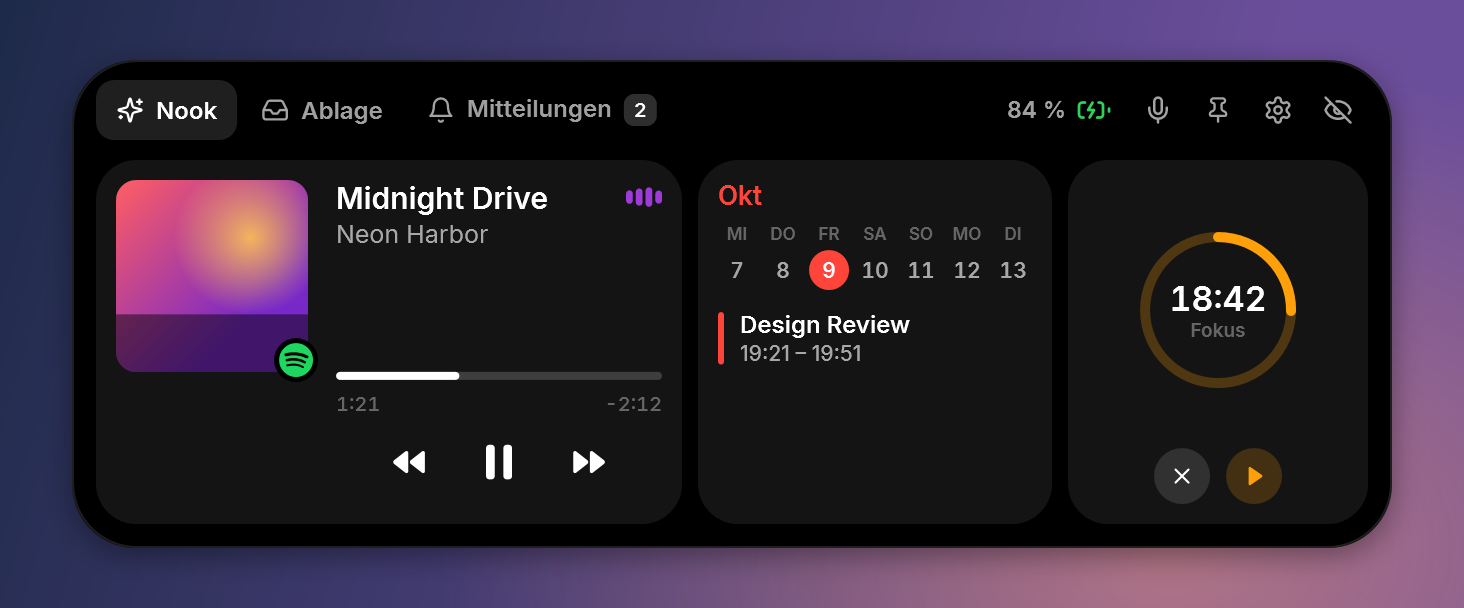
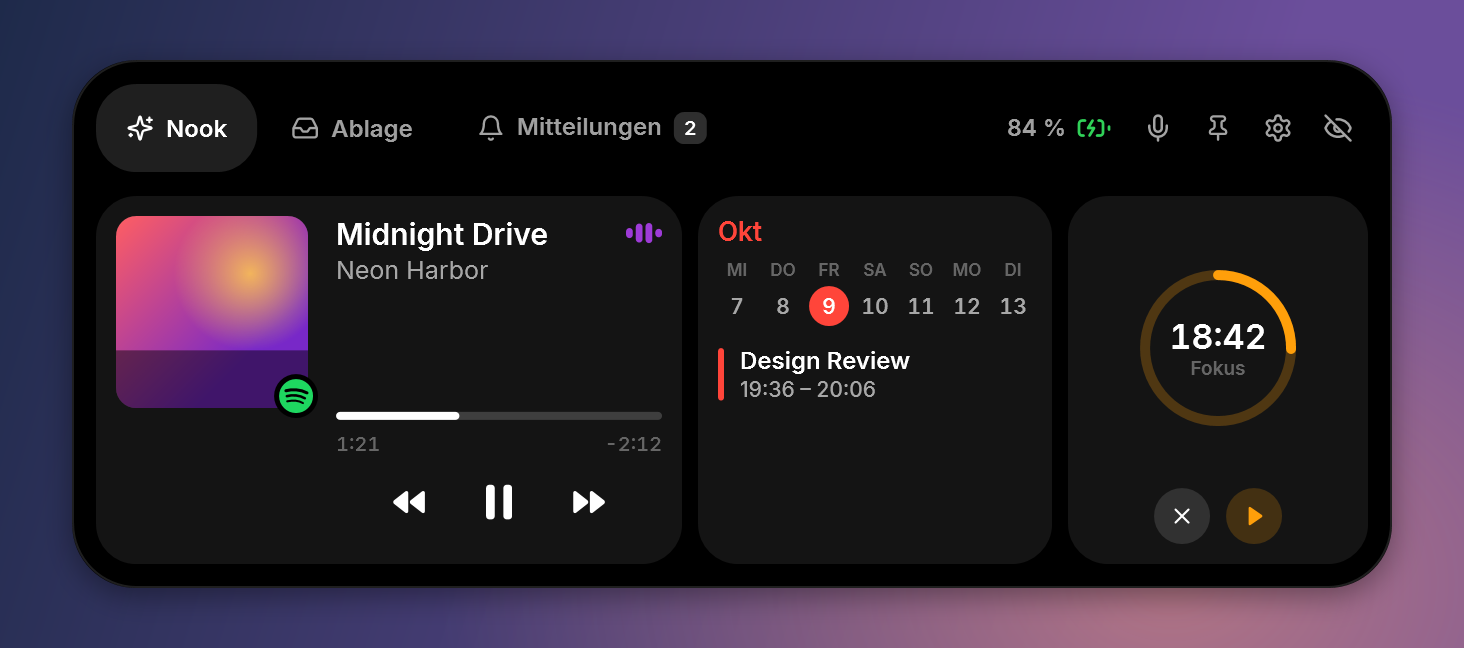
Concentric tabs: radius 20 (panel 32 - 12 inset) on 44 px bars; compact top bar in vertical layout
Claude-Session: https://claude.ai/code/session_012gKCEva5g5Z6uWC5ehUebk

diff --git a/src/DynamicBay/Island/Views/ExpandedView.xaml b/src/DynamicBay/Island/Views/ExpandedView.xaml
@@ -59,14 +59,14 @@
         </Style>
     </UserControl.Resources>
 
-    <Grid Margin="12,10,12,12">
+    <Grid Margin="12">
         <Grid.RowDefinitions>
             <RowDefinition Height="Auto" />
             <RowDefinition Height="*" />
         </Grid.RowDefinitions>
 
         <!-- ===== Top bar ===== -->
-        <DockPanel x:Name="TopBar" Height="30" LastChildFill="False" Background="Transparent">
+        <DockPanel x:Name="TopBar" Height="44" LastChildFill="False" Background="Transparent">
             <StackPanel DockPanel.Dock="Left" Orientation="Horizontal">
                 <RadioButton Style="{StaticResource Tab.Segment}" GroupName="tabs"
                              IsChecked="{Binding Tab, Converter={StaticResource EqBool}, ConverterParameter=0}">
@@ -100,7 +100,8 @@
                 <StackPanel Orientation="Horizontal" Margin="0,0,8,0" VerticalAlignment="Center"
                             Visibility="{Binding Battery.HasBattery, Converter={StaticResource Vis}}">
                     <TextBlock Style="{StaticResource T.Numeric}" FontSize="11.5" Foreground="{StaticResource B.Text2}"
-                               Text="{Binding Battery.Percent, StringFormat={}{0} %}" VerticalAlignment="Center" />
+                               Text="{Binding Battery.Percent, StringFormat={}{0} %}" VerticalAlignment="Center"
+                               Visibility="{Binding IsVertical, Converter={StaticResource NotVis}}" />
                     <c:Icon Margin="5,0,0,0" Width="18" Height="18" StrokeWidth="1.8"
                             Data="{Binding Battery.IsPluggedIn, Converter={StaticResource BatteryGlyph}}"
                             Foreground="{Binding Battery.IsPluggedIn, Converter={StaticResource OnBrush}}" />
@@ -128,7 +129,7 @@
         </DockPanel>
 
         <!-- ===== Pages ===== -->
-        <Grid Grid.Row="1" Margin="0,10,0,0">
+        <Grid Grid.Row="1" Margin="0,12,0,0">
 
             <!-- Home: media, calendar, timer -->
             <!-- Nook page scrolls when the chosen widgets need more room than the island has -->

diff --git a/src/DynamicBay/Themes/Theme.xaml b/src/DynamicBay/Themes/Theme.xaml
@@ -206,7 +206,8 @@
         <Setter Property="Template">
             <Setter.Value>
                 <ControlTemplate TargetType="RadioButton">
-                    <Border x:Name="Bg" Background="Transparent" CornerRadius="9" Padding="10,5">
+                    <!-- Radius 20 = panel corner 32 minus its 12 px inset (concentric, same as the cards); 44 px tall so it stays a rounded bar, not a capsule -->
+                    <Border x:Name="Bg" Background="Transparent" CornerRadius="20" Padding="15,0" MinHeight="44">
                         <ContentPresenter VerticalAlignment="Center" TextElement.Foreground="{TemplateBinding Foreground}" />
                     </Border>
                     <ControlTemplate.Triggers>

diff --git a/src/DynamicBay/Island/IslandWindow.xaml.cs b/src/DynamicBay/Island/IslandWindow.xaml.cs
@@ -20,8 +20,8 @@ public partial class IslandWindow : Window
     private const double EdgeOffset = 34;
     private static readonly Size WindowH = new(790, 360);
     private static readonly Size WindowV = new(480, 560);
-    private static readonly Size ExpandedH = new(660, 244);
-    private static readonly Size ExpandedV = new(384, 452);
+    private static readonly Size ExpandedH = new(660, 264);
+    private static readonly Size ExpandedV = new(384, 472);
 
     private readonly IslandViewModel _vm;
     private readonly AppSettings _settings;
